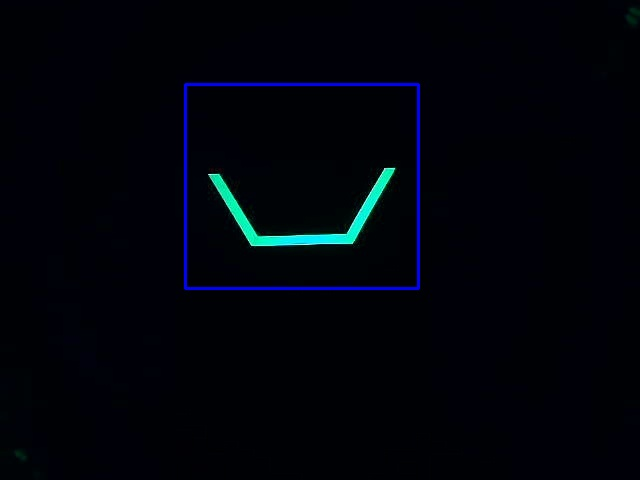
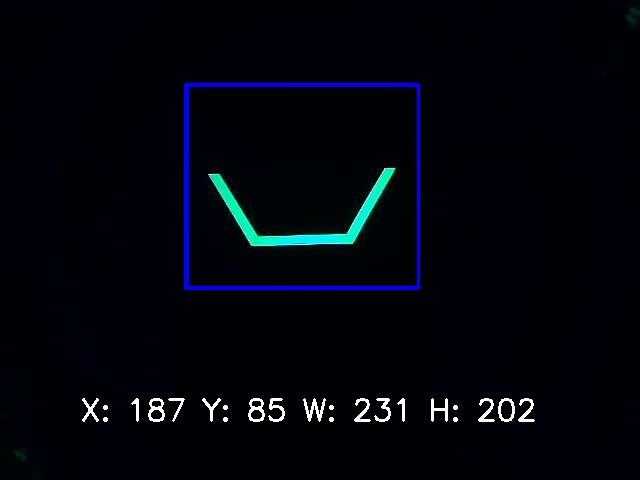
Write values on output image: misc/calibration/pixel_calculator.py

diff --git a/misc/calibration/pixel_calculator.py b/misc/calibration/pixel_calculator.py
@@ -11,18 +11,46 @@ y = 0
 w = 0
 h = 0
 
+count = 0
+
 cascade_classifier = cv2.CascadeClassifier("cascade.xml")
+
+frame = cv2.imread("images/ref-pic.jpeg")
+
+h_f, w_f, c_f = frame.shape
+
+h_f = int(h_f - (h_f / 8))
+w_f = int(w_f / 8)
+
+font = cv2.FONT_HERSHEY_SIMPLEX
+location = (w_f, h_f)
+fontScale = 1
+fontColor = (255, 255, 255)
+thickness = 2
+lineType = 2
 
 while True:
     try:
-        frame = cv2.imread("images/ref-pic.jpeg")
 
         result, x, y, w, h = functions.vision(frame, cascade_classifier)
 
-        print(f"X: {x} Y: {y} W: {w} H: {h}")
+        if count == 0:
+            print(f"X: {x} Y: {y} W: {w} H: {h}")
+            count += 1
 
         cv2.imshow("img", result)
         if cv2.waitKey(1) & 0xFF == ord("y"):
+
+            cv2.putText(
+                frame,
+                f"X: {x} Y: {y} W: {w} H: {h}",
+                location,
+                font,
+                fontScale,
+                fontColor,
+                thickness,
+                lineType,
+            )
             cv2.imwrite(f"images/ref-pic-post.jpeg", result)
             print("Processed image is written under images folder.")
             break
